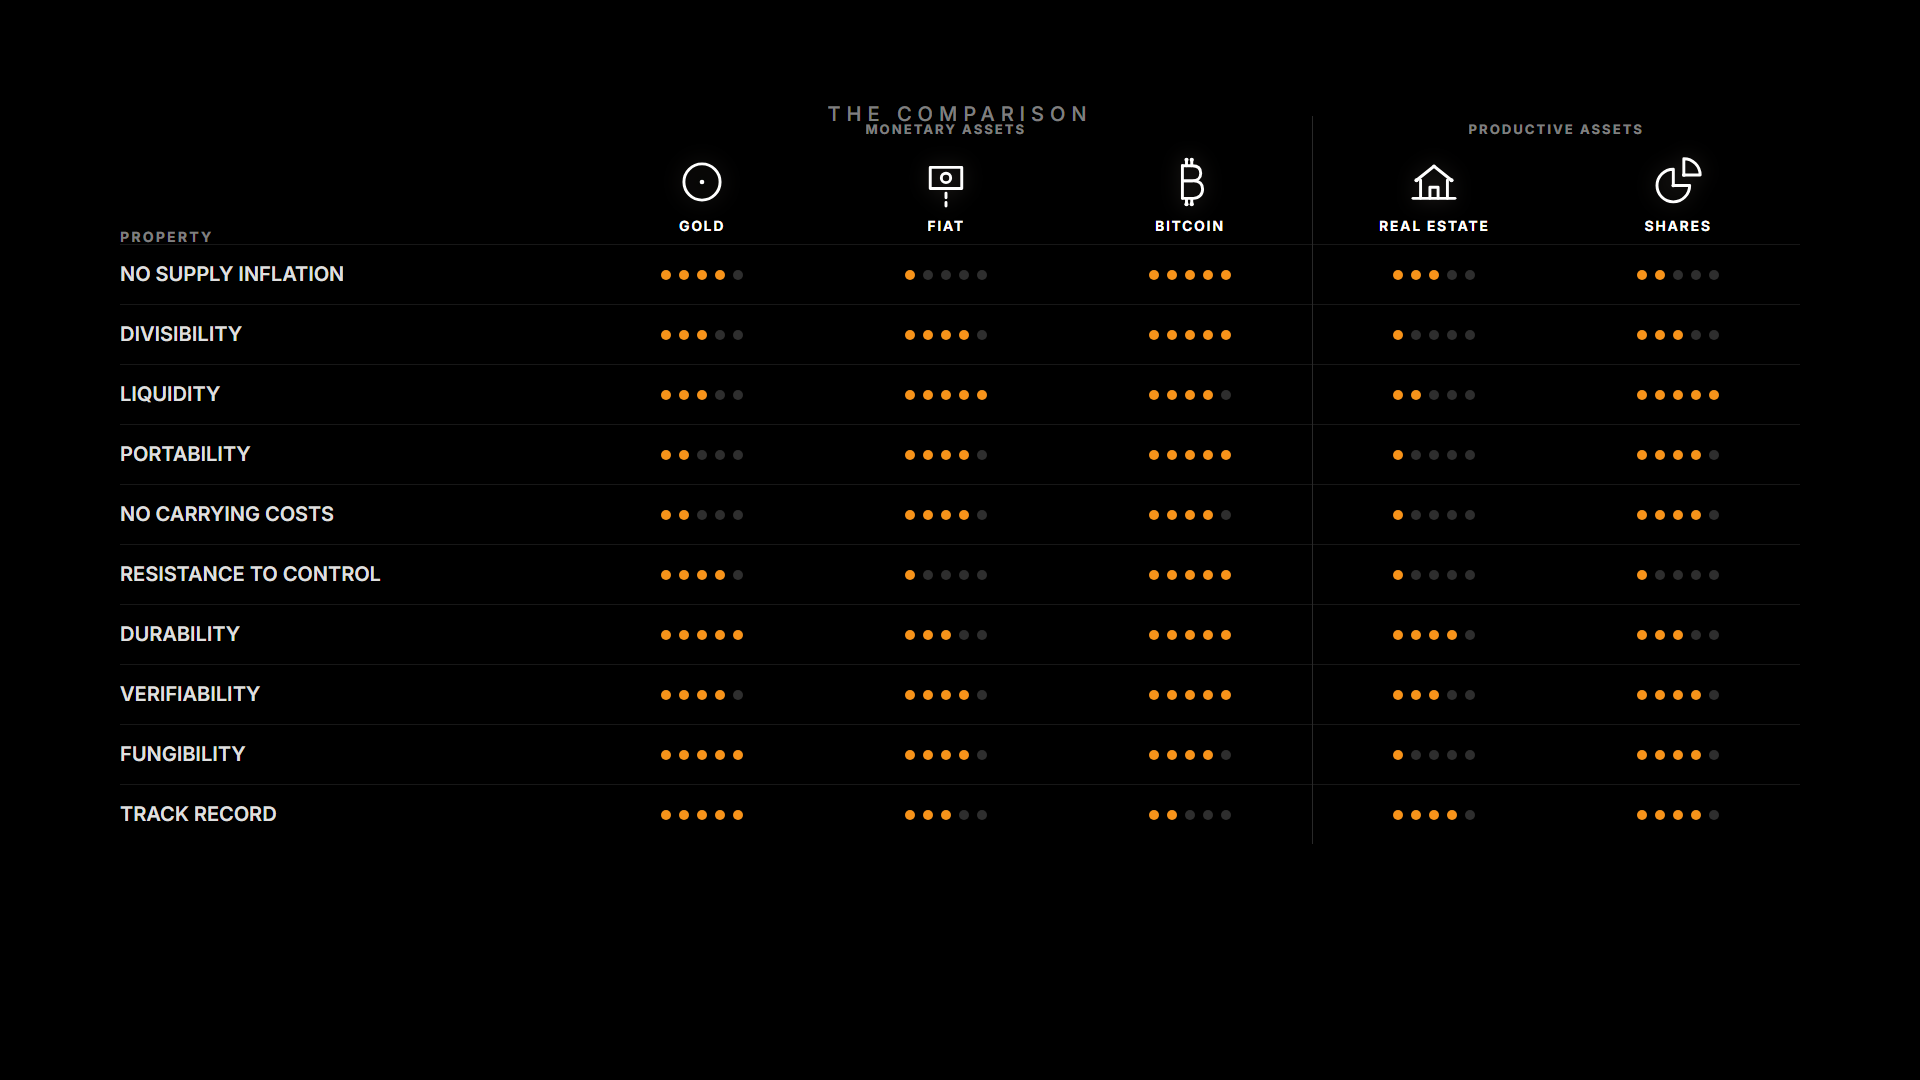
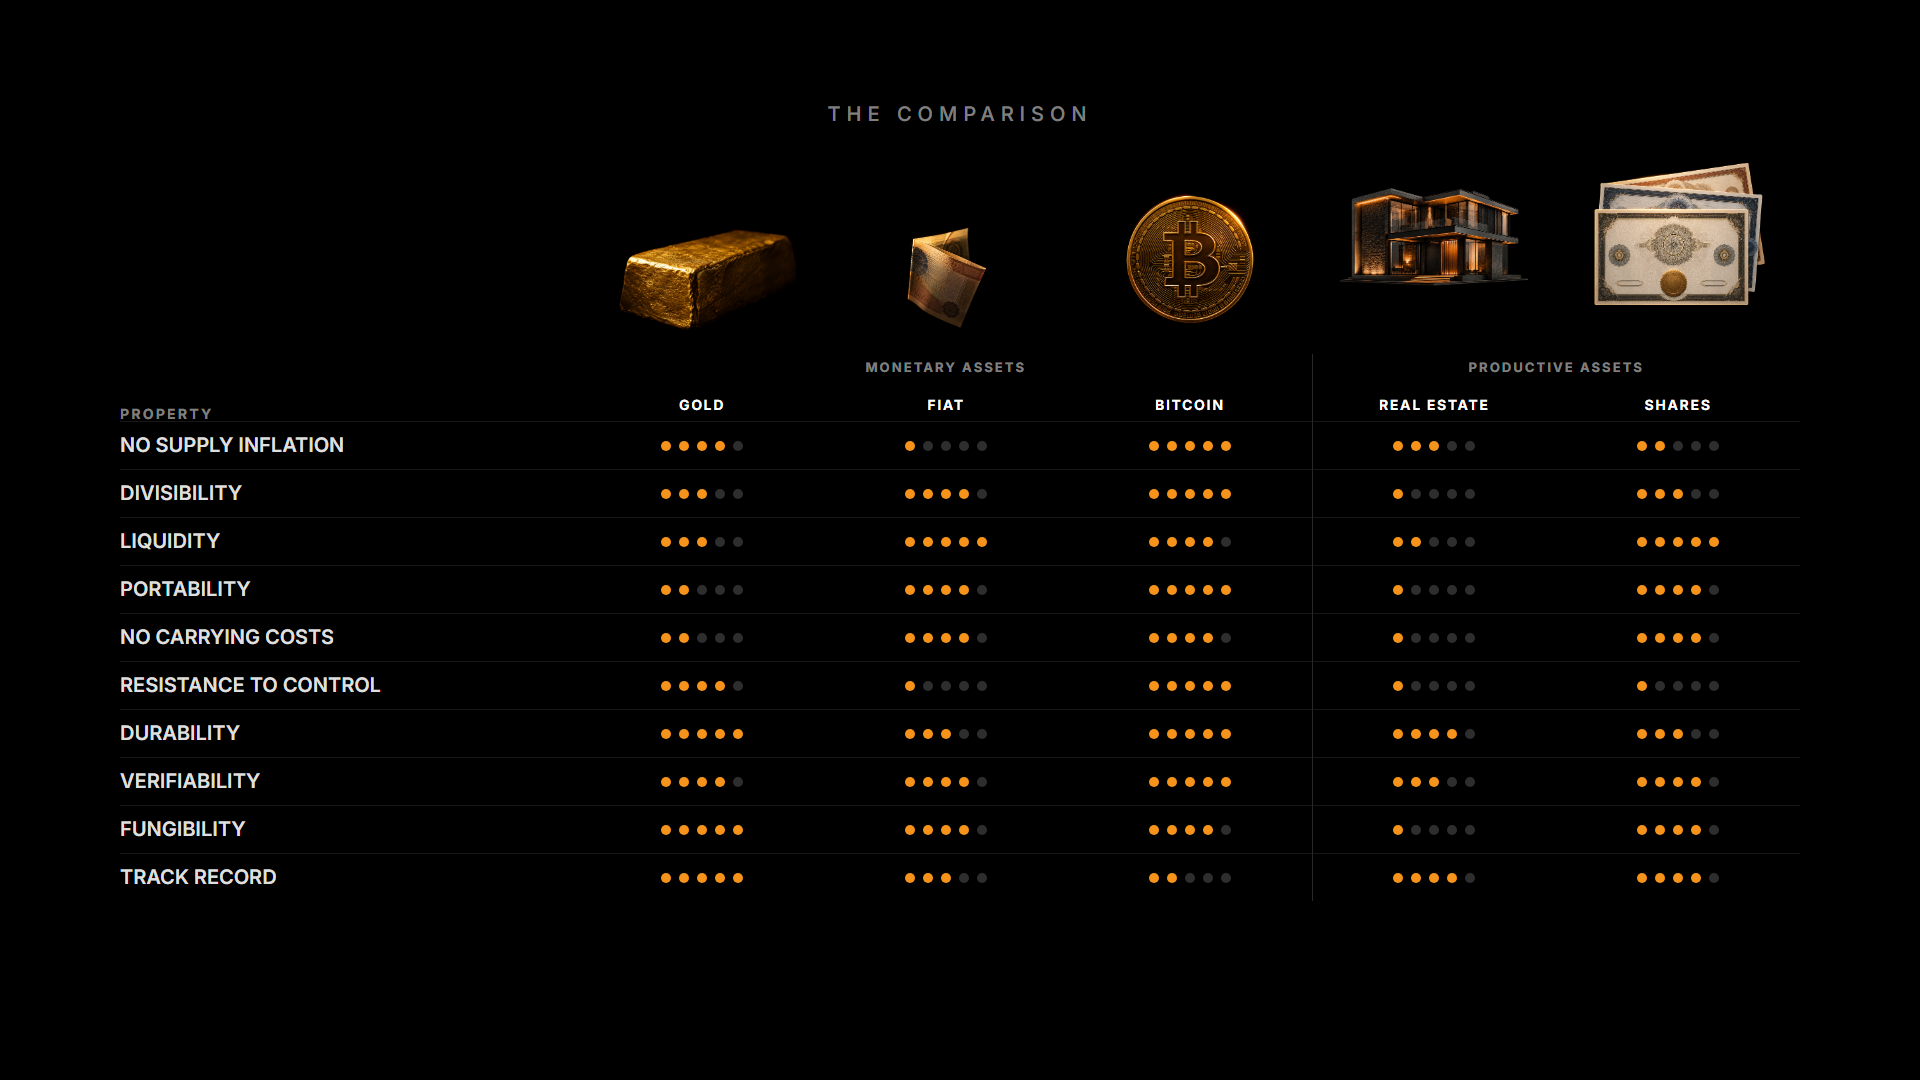
cells(act-4): s23-b5 and s23-b6 re-rendered — the header band of renders above the table, the glyphs gone, the grammar beneath; S23-F2 ADAPT on the sheet; 27/27 checks
Claude-Session: https://claude.ai/code/session_018ujnmLua1EPGzWvFmZCeAc

diff --git a/review/act-4/states/sheet.html b/review/act-4/states/sheet.html
@@ -65,18 +65,21 @@ claim, <b>the claim and its carrier</b> with the crescendo, <b>the test</b> (the
 question), <b>the inversion</b>, <b>the failures</b> (ten typographic rows), <b>the requirements</b> (the two sweeps, the ten properties),
 <b>the candidates</b>, <b>the fifty scores landing at once</b>, and <b>the closing line</b>. At every frame the question is the same one
 Act III's sheet asked: <i>can I follow the argument by eye alone?</i> Then return two things: your verdicts on the
-<b>pending set</b> — the 8 flagged cells listed below, each “as rendered” or one word that changes it — and
+<b>pending set</b> — the 6 flagged cells listed below, each “as rendered” or one word that changes it — and
 <b>the go-ahead</b> that unlocks Batch D implementation under the sizing law. The approved-port cells ask nothing.</p>
 <p class="note"><b>Ruled at the flipbook walk — the Batch D implementation brief §1, 3 September 2026</b> (master §13), each ruling its own commit, each recorded on the cell it answers:</p>
 <ol class="rulings">
 <li>Scene 19 restages — beat 1 is the inverted framing alone, no carrier on stage; the carrier (the claim in its shell, on the stress stage) arrives at beat 2, timed to “let’s put a carrier on the bench and try to break it.” The change is made at the source (legacy 4-10 keys the carrier to build 2); S19-F1 is ADAPT; the two cells re-rendered</li>
 <li>Scene 22 merges its list beats — all ten properties land in one advance; the two paragraphs merge at zero word changes, one [→] removed; S22 = 3 beats, the act = 42; S22-F2 is ADAPT; the merged cell is the complete two-column list, the five-row cell leaves the record</li>
 <li>The sheet is presenter-approved in full — the remaining flagged cells approved as rendered (the entry seam with the whole fork at rest and no words on the frame; the definition at the legacy build-3 composition; beat 2’s frame held for the social claim; the disc’s re-centering as wiring; the coin photograph as ruled; the unmapped grid as the first sweep’s first movement; the empty table entering with the scores’ gesture); the table-kicker spacing recorded as an accepted legacy fact; the go-ahead given — the 42 cells are the approved set, the visual authority for every landed-state proof of the Batch D implementation</li>
+<li>Acts III–IV final (the Act V kickoff brief, Part A §2, 3 Sep 2026, master §13): the table’s headers become renders — the five candidate glyphs retire and the renders ride as a header band above the table at lineup scale per the rails law, the drawn grammar beneath untouched; S23-F2 is ADAPT; s23-b5 and s23-b6 re-rendered on the ruling’s authority as the updated approved states; the band’s fit flagged in the report</li>
 </ol>
 <ul class="flags">
 <li><a href="#s19-b1"><b>s19-b1</b></a> — RULED 3 September 2026 (the Batch D implementation brief §1.1, master §13): beat 1 is the inverted framing alone — no carrier on stage. The change is made at the source — legacy 4-10 keys the stress stage’s carrier to build 2 — and S19-F1 is ADAPT in the ruled map, the one change named. The flag this cell carried (4-10’s build 0, the direct framing under the governing question, has no spoken advance of its own; the sheet stood the settled state) is answered by the same ruling: the movement is wiring, and the implementation plays the legacy’s own sequence — the direct framing under the question, then the inverted replacing it — as this beat’s gesture.</li>
 <li><a href="#s19-b2"><b>s19-b2</b></a> — RULED 3 September 2026 (the Batch D implementation brief §1.1, master §13): the carrier arrives at beat 2, timed to “let’s put a carrier on the bench and try to break it.” The flag this cell carried — the two beats shared one still since R7.4 deleted the corner brackets — is closed by the ruling: the frame is unchanged, and its arrival (the claim’s and the shell’s own reveals) is now the beat’s gesture. The beats are no longer identical stills.</li>
 <li><a href="#s22-b3"><b>s22-b3</b></a> — RULED 3 September 2026 (the Batch D implementation brief §1.2, master §13): Scene 22 merges its list beats — all ten properties land in one advance; the two paragraphs merge at zero word changes, one [→] removed; S22 = 3, the act = 42. This cell is the merged beat’s settled state — legacy 4-14’s complete list, its own last state — and S22-F2 is ADAPT in the ruled map, the one change named: the landing as one gesture, at Scene 22’s build (Session 2). The five-row cell this beat used to be leaves the record, and the flag it carried (the grid giving way to the list with no legacy morph between them) is answered the same way — the composition change is Scene 22’s wiring.</li>
+<li><a href="#s23-b5"><b>s23-b5</b></a> — RULED 3 September 2026 (the Act V kickoff brief, Part A §2, master §13): the table’s headers become renders — the five candidate glyphs retire, the renders ride as a header band above the table at lineup scale per the rails law, the drawn grammar beneath untouched; the group labels and the kicker stay as approved; the fifty-score landing is unchanged. S23-F2 is ADAPT. The change is at the source (legacy 4-16, the table component); this cell mounts the module and carries it. One thing this render adds, flagged in the report: at the rails-law box the band does not fit above the table with the closing line at its held position unless the table gives ground — the heading row shrinks to its label and the ten score rows tighten from 60 to 48, under one attribute on the slide root; the legacy pitch stays on file. The kicker-to-table stack is no longer tight — the band sits between them.</li>
+<li><a href="#s23-b6"><b>s23-b6</b></a> — RULED 3 September 2026 (the Act V kickoff brief, Part A §2, master §13): the table’s headers become renders — this cell re-renders on the ruling’s authority, the closing line at its held position (930) beneath the tightened table; the line itself is untouched (S23-F3 stays PORT). The flag this cell carried — the tight kicker-to-table stack, an accepted legacy fact — is overtaken by the band, which now sits between the kicker and the group labels.</li>
 </ul>
 <p class="note"><b>The flags, gathered — closed, approved as rendered 3 September 2026</b> — each in plain English, each on its cell:</p>
 <ul class="flags">
@@ -86,15 +89,13 @@ Act III's sheet asked: <i>can I follow the argument by eye alone?</i> Then retur
 <li><a href="#s16-b5"><b>s16-b5</b></a> — From beat 4’s released disc (176, at the fork’s apex) to 4-06’s claim inside the carrier stage (the ClaimObject’s own 116 at the scene’s center) is a re-centering and a scale change the map records as wiring (§0: the disc’s scale at the homecoming against its Section 4 scale inside the shell). One number places it; nothing about the object changes — it is the same drawn disc.</li>
 <li><a href="#s16-b6"><b>s16-b6</b></a> — The BITCOIN position in the lineage carries a photograph of a physical coin — the legacy source’s own V-1 flag (a photograph of an object the script denies), restored by your R7.2 ruling and carried here as ruled (map §4 seam 6). One word in the source’s carrier table returns it to the grammar mark; the other four positions are unaffected.</li>
 <li><a href="#s22-b1"><b>s22-b1</b></a> — 4-13’s build 0 — all ten failures standing in the grid, none yet mapped — is the composition this beat’s sweep starts from, and it has no advance of its own in the merged act: Scene 21’s completed index gives way to the grid as this beat’s first movement, and the sweep follows. Wiring, flagged. (The count is as you ruled it: three compositions across four advances.)</li>
-<li><a href="#s23-b5"><b>s23-b5</b></a> — The empty table — 4-16’s build 0, the table drawn with no score in it — has no spoken advance of its own once 4-15 and 4-16 are one scene (map §4 seam 7). It enters either with beat 4’s recede (the candidates giving way to the empty table as the question fades) or as the first movement of this beat’s gesture (the table draws, then the fifty scores land). This sheet stands the settled state — the scores landed — and flags the movement. One more thing the still shows faithfully: in the legacy frame the kicker THE COMPARISON (top 104) and the MONETARY ASSETS group label (the table’s first row, top 116) stack with no air between them, and the deck renders the same tight stack at 4-16 build 1. One number on the kicker’s top opens the gap — a ruled change on a proven treatment, yours to name.</li>
-<li><a href="#s23-b6"><b>s23-b6</b></a> — The kicker THE COMPARISON and the MONETARY ASSETS group label stack with no air between them, exactly as the legacy deck renders this frame (the kicker at top 104, the table at top 116). One number opens the gap — a ruled change on a proven treatment, yours to name; this sheet ports the frame as it is.</li>
 </ul>
-<p class="note">Cell classes: <b>3 approved-ruled · 8 approved-as-rendered · 31 approved-port · 0 pending-review</b>. Beneath every cell: its legacy source by slide and build, and its probes — the
+<p class="note">Cell classes: <b>5 approved-ruled · 6 approved-as-rendered · 31 approved-port · 0 pending-review</b>. Beneath every cell: its legacy source by slide and build, and its probes — the
 count of elements the still is asserted to show (the fifty revealed scores, the ten mapped rows, the released claim, the shell's
 future focus), measured in the mounted DOM at capture. The deck itself is untouched by this sheet; the one deck change of the
 session is the ruled 3-08 splice (39 → 38 slides), proven in <i>review/act-4/smoke-deck.json</i>.</p>
-<h3 class="h--approved-as-rendered">APPROVED AS RENDERED — the cells that carried a flag to the walk · 8 cells</h3><p class="lang">A cell that carried a wiring flag to the flipbook walk and was approved as rendered there (the Batch D implementation brief §1.3, 3 September 2026, master §13). The flag stays on the cell as a closed record of what was asked and answered; nothing here is pending. The two table cells also record the kicker-to-table spacing as an accepted legacy fact.</p>
-<h3 class="h--approved-ruled">RULED AT THE FLIPBOOK WALK — the cells the presenter answered with a ruling · 3 cells</h3><p class="lang">A cell whose flag the presenter answered with a ruling (the Batch D implementation brief §1, 3 September 2026, master §13). The ruling is recorded on the cell in the flag’s place, the record is amended where it lands (the map, the package, the source), and the cell is re-rendered on the ruling’s authority. Nothing here is pending.</p>
+<h3 class="h--approved-as-rendered">APPROVED AS RENDERED — the cells that carried a flag to the walk · 6 cells</h3><p class="lang">A cell that carried a wiring flag to the flipbook walk and was approved as rendered there (the Batch D implementation brief §1.3, 3 September 2026, master §13). The flag stays on the cell as a closed record of what was asked and answered; nothing here is pending. The two table cells also record the kicker-to-table spacing as an accepted legacy fact.</p>
+<h3 class="h--approved-ruled">RULED AT THE FLIPBOOK WALK — the cells the presenter answered with a ruling · 5 cells</h3><p class="lang">A cell whose flag the presenter answered with a ruling (the Batch D implementation brief §1, 3 September 2026, master §13). The ruling is recorded on the cell in the flag’s place, the record is amended where it lands (the map, the package, the source), and the cell is re-rendered on the ruling’s authority. Nothing here is pending.</p>
 <h3 class="h--approved-port">APPROVED BY PROVENANCE — the PORT cells · 31 cells</h3><p class="lang">A proven legacy treatment, transplanted verbatim: the legacy slide module itself mounted at the build the ruled map names, the legacy stylesheet placing every element. Review is optional under the provenance rule (AGENTS.md §4.9) — the presenter approved these treatments when the Section 4 deck shipped, and the map’s ruling carries them home. A cell here asks nothing; it is on the sheet so the act can be walked whole.</p>
 <h3 class="h--pending-review">PENDING REVIEW — the flagged cells · 0 cells</h3><p class="lang">Also PORT cells, rendered exactly as the map names them, but each carries a wiring flag the presenter should see: the entry seam (how much of Scene 4 returns, and that the recede is a gesture rather than a state), the disc’s travel and scale between Scene 16’s frames, the legacy build-0 compositions that have no spoken advance once two slides are one scene (the direct framing, the unmapped grid, the empty properties frame, the empty table), the coin photograph in the carrier lineage. Each is one honest render plus a plain-English flag; nothing is decided silently. Your verdict on each — “as rendered”, or one word that changes it — closes it.</p>
 <hr>
@@ -537,7 +538,7 @@ session is the ruled 3-08 splice (39 → 38 slides), proven in <i>review/act-4/s
         <br><span class="src">probes 2/2</span> · <a href="./s22-b3.png" target="_blank">full size</a>
       </figcaption>
     </figure></div>
-<h2>Scene 23 — The Comparison (6 beats · the lineup whole, as ruled · the fifty scores at once · the closing line)</h2><div class="row">
+<h2>Scene 23 — The Comparison (6 beats · the lineup whole, as ruled · the header band of renders above the table, as ruled 3 Sep 2026 · the fifty scores at once · the closing line)</h2><div class="row">
     <figure data-review="approved-port" id="s23-b1">
       <a href="./s23-b1.png" target="_blank"><img src="./s23-b1.png" alt="s23-b1" loading="lazy" /></a>
       <figcaption>
@@ -586,28 +587,28 @@ session is the ruled 3-08 splice (39 → 38 slides), proven in <i>review/act-4/s
         <br><span class="src">probes 2/2</span> · <a href="./s23-b4.png" target="_blank">full size</a>
       </figcaption>
     </figure>
-    <figure data-review="approved-as-rendered" id="s23-b5">
+    <figure data-review="approved-ruled" id="s23-b5">
       <a href="./s23-b5.png" target="_blank"><img src="./s23-b5.png" alt="s23-b5" loading="lazy" /></a>
       <figcaption>
         <b>s23-b5</b> · S23 b5 · <span class="frame">S23-F2</span>
-        <span class="pill pill--approved-as-rendered">PORT · approved-as-rendered</span>
-        <br>Beat 5 · the table — THE COMPARISON in the quiet kicker register; PROPERTY; the five compact headers as grammar glyphs; ten rows; and ALL FIFTY SCORES LANDING AT ONCE — the frozen data, blob-proven, walked in the spoken word. No total, no winner badge, no highlight. The closing line is not yet on the frame.
-        <br><span class="flagline"><b>FLAG — closed, approved as rendered 3 Sep 2026:</b> The empty table — 4-16’s build 0, the table drawn with no score in it — has no spoken advance of its own once 4-15 and 4-16 are one scene (map §4 seam 7). It enters either with beat 4’s recede (the candidates giving way to the empty table as the question fades) or as the first movement of this beat’s gesture (the table draws, then the fifty scores land). This sheet stands the settled state — the scores landed — and flags the movement. One more thing the still shows faithfully: in the legacy frame the kicker THE COMPARISON (top 104) and the MONETARY ASSETS group label (the table’s first row, top 116) stack with no air between them, and the deck renders the same tight stack at 4-16 build 1. One number on the kicker’s top opens the gap — a ruled change on a proven treatment, yours to name.</span>
+        <span class="pill pill--approved-ruled">ADAPT · approved-ruled</span>
+        <br>Beat 5 · the table — THE COMPARISON in the quiet kicker register; the five candidates as renders in a band above the table at the rails-law band scale (gold, the fiat note, the coin, the house, and shares, bottom-aligned on one baseline, each over its own column); beneath it the grammar untouched — MONETARY ASSETS · PRODUCTIVE ASSETS, PROPERTY, the five labels, ten rows — and ALL FIFTY SCORES LANDING AT ONCE — the frozen data, blob-proven, walked in the spoken word. No total, no winner badge, no highlight. The closing line is not yet on the frame.
         
-        <br><span class="src">source: 4-16-the-comparison, build 1 — all fifty scores on one advance (R7.4 §D.3) + AssetComparisonTable + DotRating + COMPARISON_ROWS (frozen)</span>
-        <br><span class="src">probes 3/3</span> · <a href="./s23-b5.png" target="_blank">full size</a>
+        <br><span class="ruleline"><b>RULED 3 September 2026 (the Act V kickoff brief, Part A §2, master §13): the table’s headers become renders — the five candidate glyphs retire, the renders ride as a header band above the table at lineup scale per the rails law, the drawn grammar beneath untouched; the group labels and the kicker stay as approved; the fifty-score landing is unchanged. S23-F2 is ADAPT. The change is at the source (legacy 4-16, the table component); this cell mounts the module and carries it. One thing this render adds, flagged in the report: at the rails-law box the band does not fit above the table with the closing line at its held position unless the table gives ground — the heading row shrinks to its label and the ten score rows tighten from 60 to 48, under one attribute on the slide root; the legacy pitch stays on file. The kicker-to-table stack is no longer tight — the band sits between them.</b></span>
+        <br><span class="src">source: 4-16-the-comparison, build 1 — all fifty scores on one advance (R7.4 §D.3) + AssetComparisonTable + DotRating + COMPARISON_ROWS (frozen); the header band at the source since the Acts III–IV final ruling 2 (3 Sep 2026)</span>
+        <br><span class="src">probes 6/6</span> · <a href="./s23-b5.png" target="_blank">full size</a>
       </figcaption>
     </figure>
-    <figure data-review="approved-as-rendered" id="s23-b6">
+    <figure data-review="approved-ruled" id="s23-b6">
       <a href="./s23-b6.png" target="_blank"><img src="./s23-b6.png" alt="s23-b6" loading="lazy" /></a>
       <figcaption>
         <b>s23-b6</b> · S23 b6 · <span class="frame">S23-F3</span>
-        <span class="pill pill--approved-as-rendered">PORT · approved-as-rendered</span>
-        <br>Beat 6 · the closing line: Don’t trust. Verify. — two spans, on stage exactly once in the film, beneath the fifty scores. The scores are dated in the spoken word: my judgments, as of 2026; every one of them an invitation. The act ends on the turn to where monetary demand goes.
-        <br><span class="flagline"><b>FLAG — closed, approved as rendered 3 Sep 2026:</b> The kicker THE COMPARISON and the MONETARY ASSETS group label stack with no air between them, exactly as the legacy deck renders this frame (the kicker at top 104, the table at top 116). One number opens the gap — a ruled change on a proven treatment, yours to name; this sheet ports the frame as it is.</span>
+        <span class="pill pill--approved-ruled">PORT · approved-ruled</span>
+        <br>Beat 6 · the closing line: Don’t trust. Verify. — two spans, on stage exactly once in the film, beneath the fifty scores, the render band standing above the table. The scores are dated in the spoken word: my judgments, as of 2026; every one of them an invitation. The act ends on the turn to where monetary demand goes.
         
-        <br><span class="src">source: 4-16-the-comparison, build 2 — the line</span>
-        <br><span class="src">probes 2/2</span> · <a href="./s23-b6.png" target="_blank">full size</a>
+        <br><span class="ruleline"><b>RULED 3 September 2026 (the Act V kickoff brief, Part A §2, master §13): the table’s headers become renders — this cell re-renders on the ruling’s authority, the closing line at its held position (930) beneath the tightened table; the line itself is untouched (S23-F3 stays PORT). The flag this cell carried — the tight kicker-to-table stack, an accepted legacy fact — is overtaken by the band, which now sits between the kicker and the group labels.</b></span>
+        <br><span class="src">source: 4-16-the-comparison, build 2 — the line; the header band at the source since the Acts III–IV final ruling 2 (3 Sep 2026)</span>
+        <br><span class="src">probes 4/4</span> · <a href="./s23-b6.png" target="_blank">full size</a>
       </figcaption>
     </figure></div>
 </body></html>
